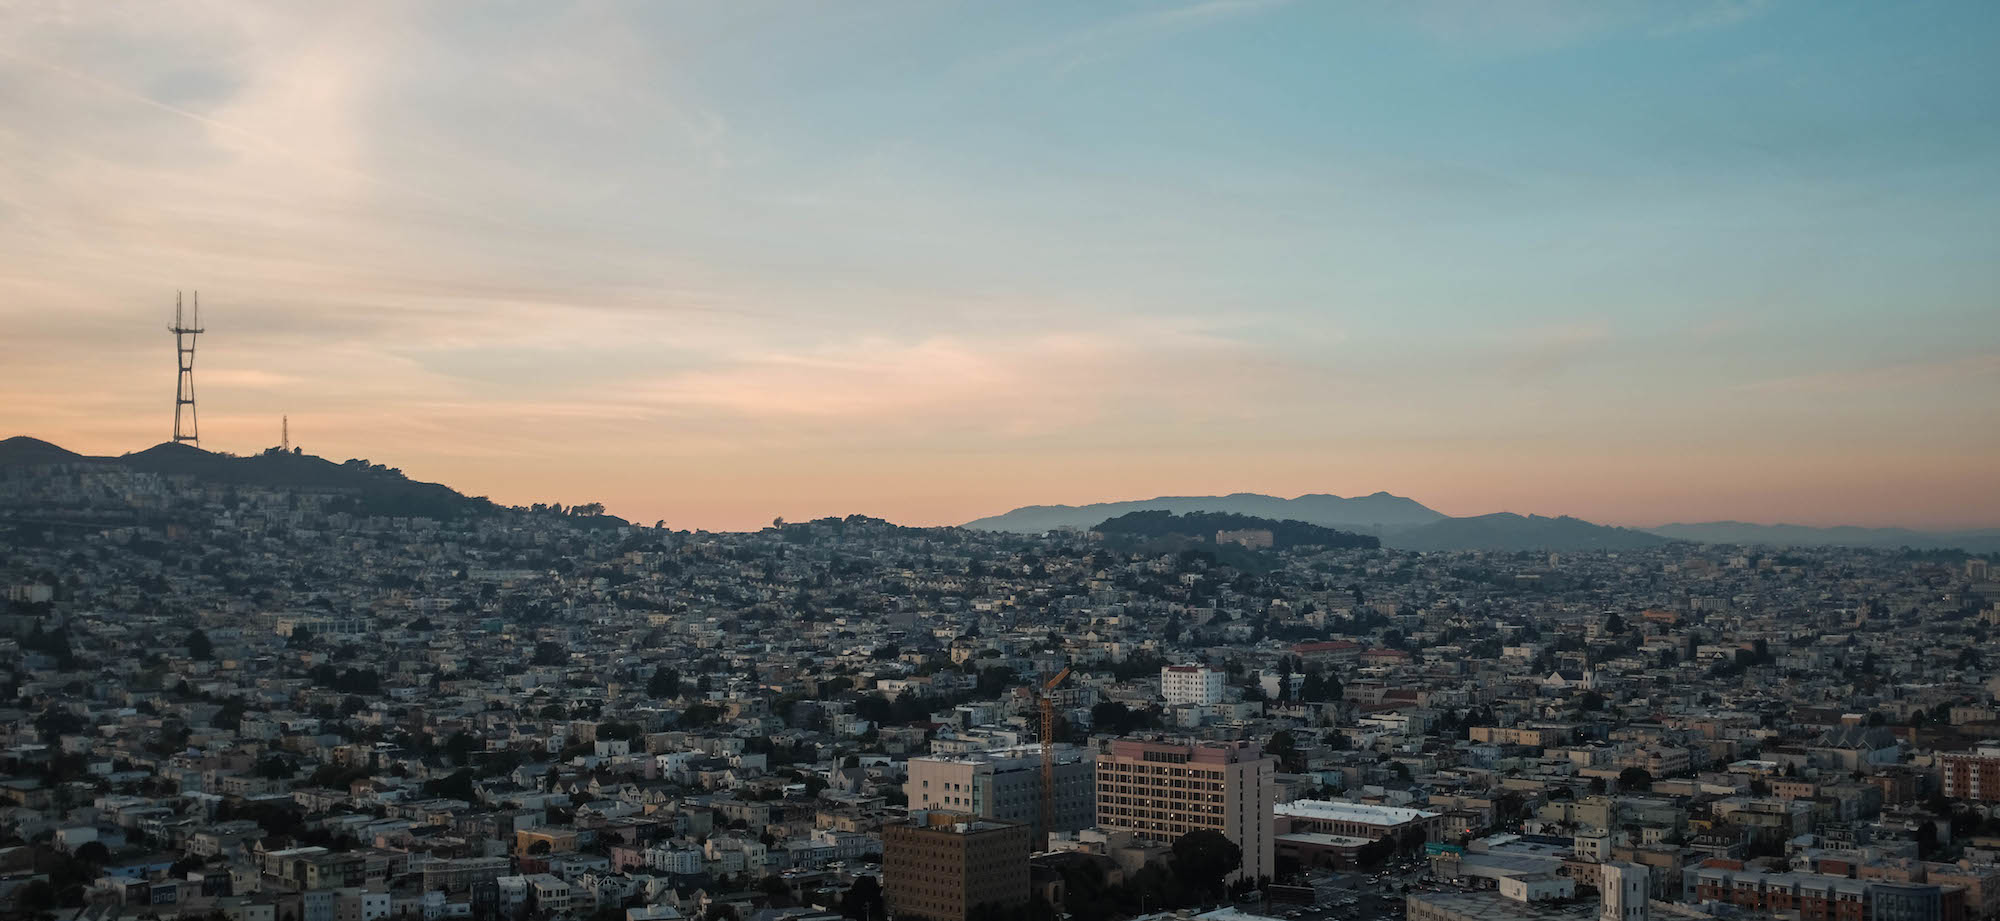
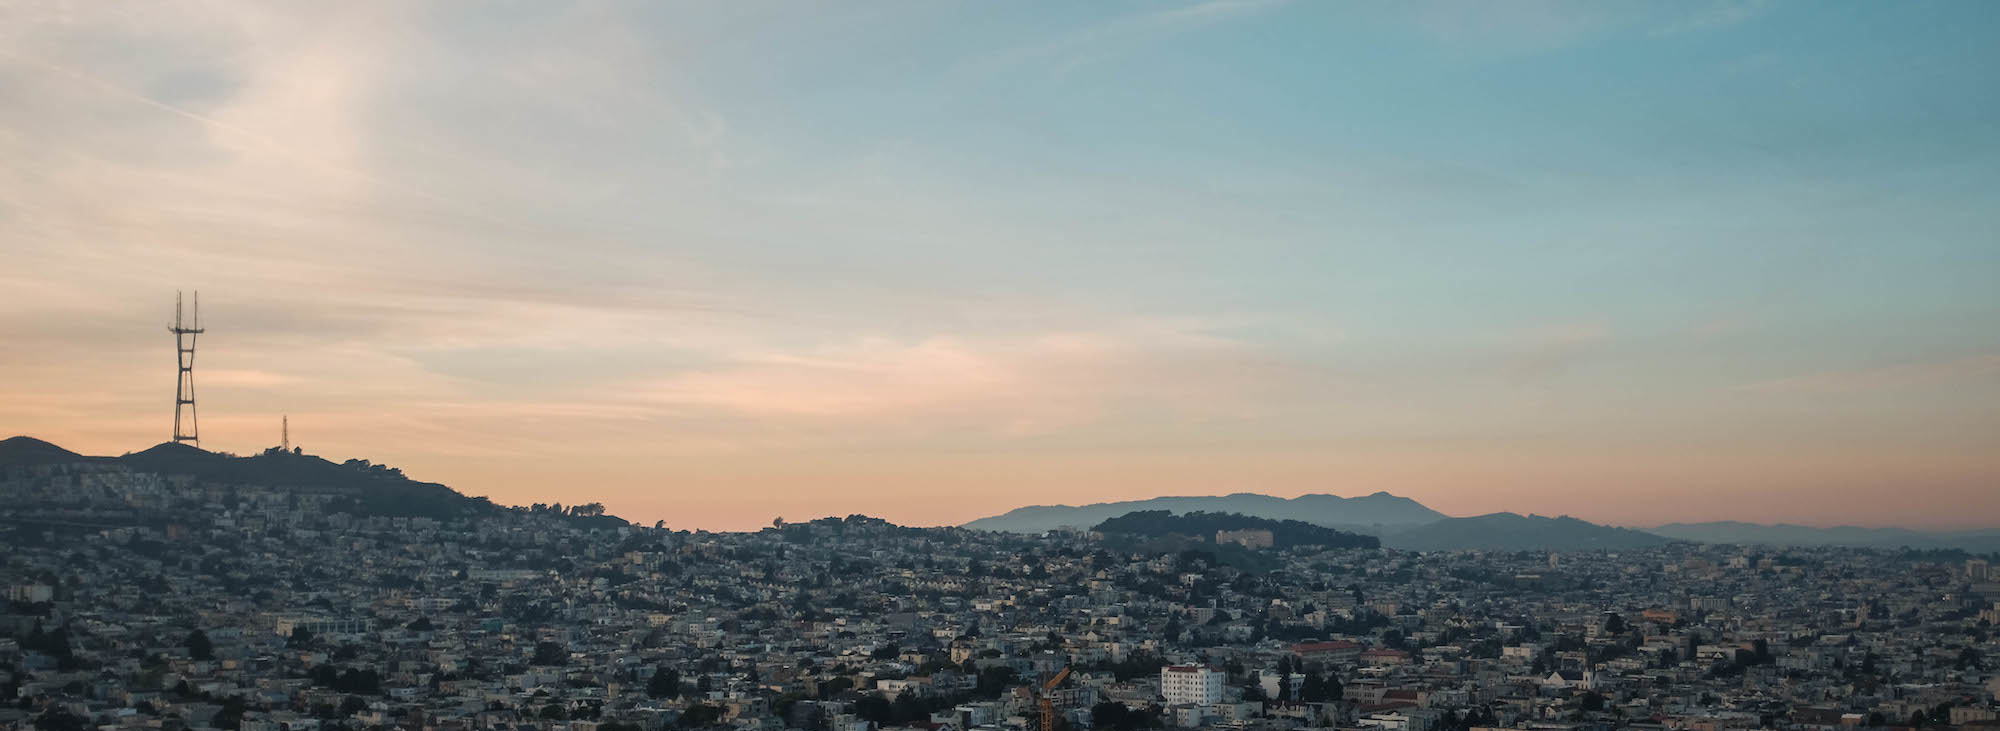
animate + footer text
update

diff --git a/index.html b/index.html
@@ -32,7 +32,7 @@
 
   <body>
     <!-- Main jumbotron for a primary marketing message or call to action -->
-    <div class="jumbotron" style="background-image: url('img/header-bg.png'); background-size: cover; background-position: 30% 38%; text-align: center;">
+    <div class="jumbotron" style="background-image: url('img/header-bg.png'); background-size: cover; background-position: 50% 55%; text-align: center;">
       <div class="container" style="text-align: center;">
           <img src="img/logo.png" class="header-logo img-responsive" style="margin-top: 5%; margin-bottom: 5%;">
       </div>
@@ -125,11 +125,14 @@
             </div>
         </div>
     </div>
-    <footer>
-    
-        
-        
-    </footer>
+    <div class="jumbotron" id="intro">
+        <div class="container animated slideInLeft" id="footerText">
+            <span style="font-size: 3em; font-weight: 300;">+1-650-889-6456</span>
+            <footer style="font-weight: 300;">
+                by Achal Srinivasan and Gabriel Vacaliuc. &copy; 2017 Pendula.
+            </footer>
+        </div>
+    </div>    
 
     <!-- Bootstrap core JavaScript
     ================================================== -->

diff --git a/css/pendula.css b/css/pendula.css
@@ -44,6 +44,11 @@ h3 {
   -webkit-animation-duration: 3s;
 }
 
+#footerText {
+    -webkit-animation-duration: 2s;
+    -webkit-animation-delay: .5s;
+}
+
 #block2 { 
   -webkit-animation-duration: 1.5s;
   -webkit-animation-delay: 0.15s;
